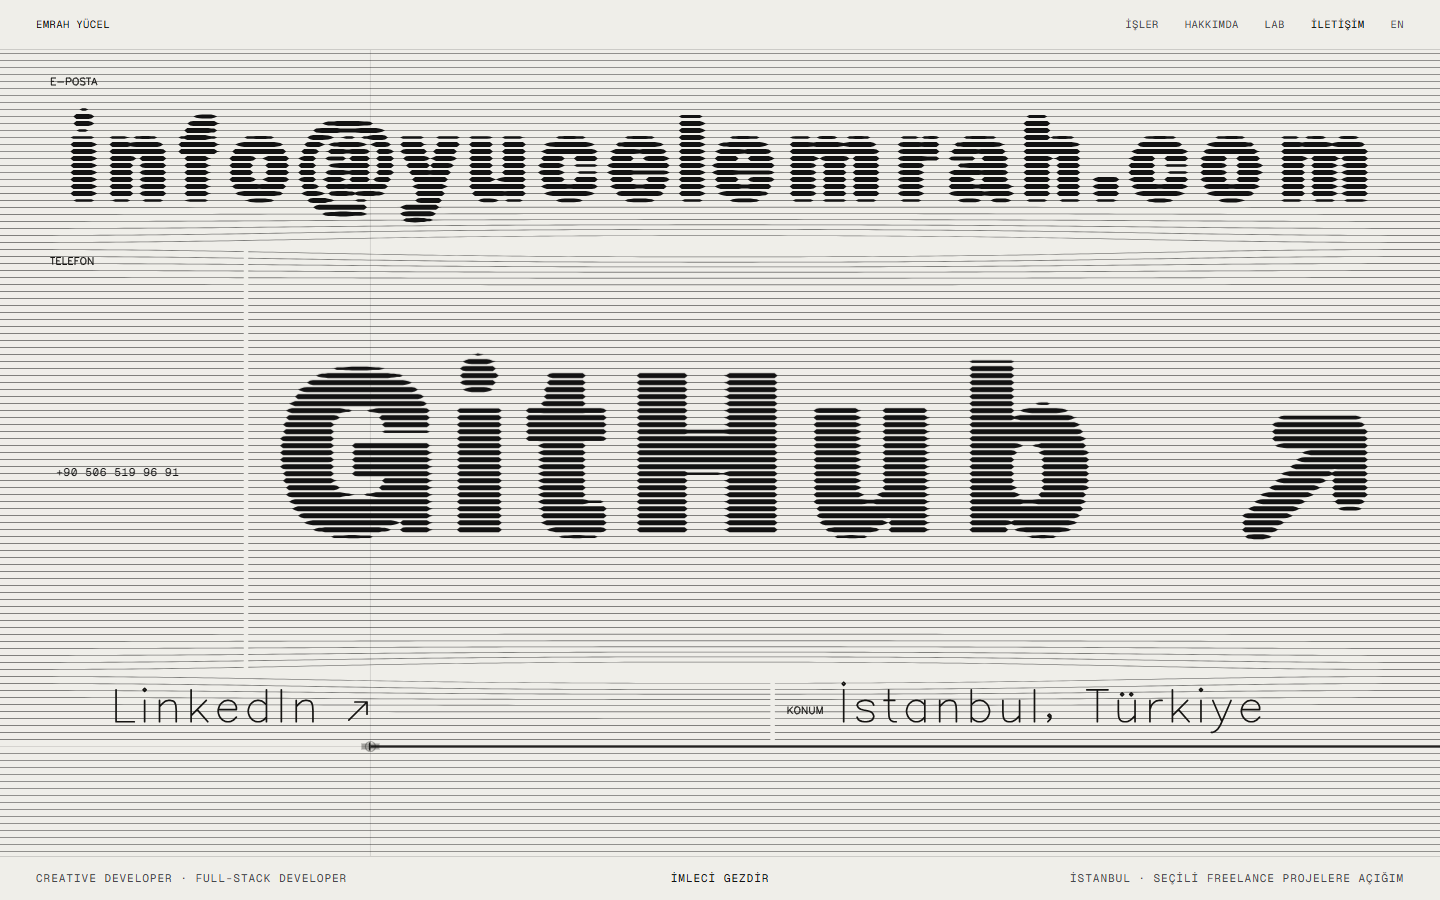
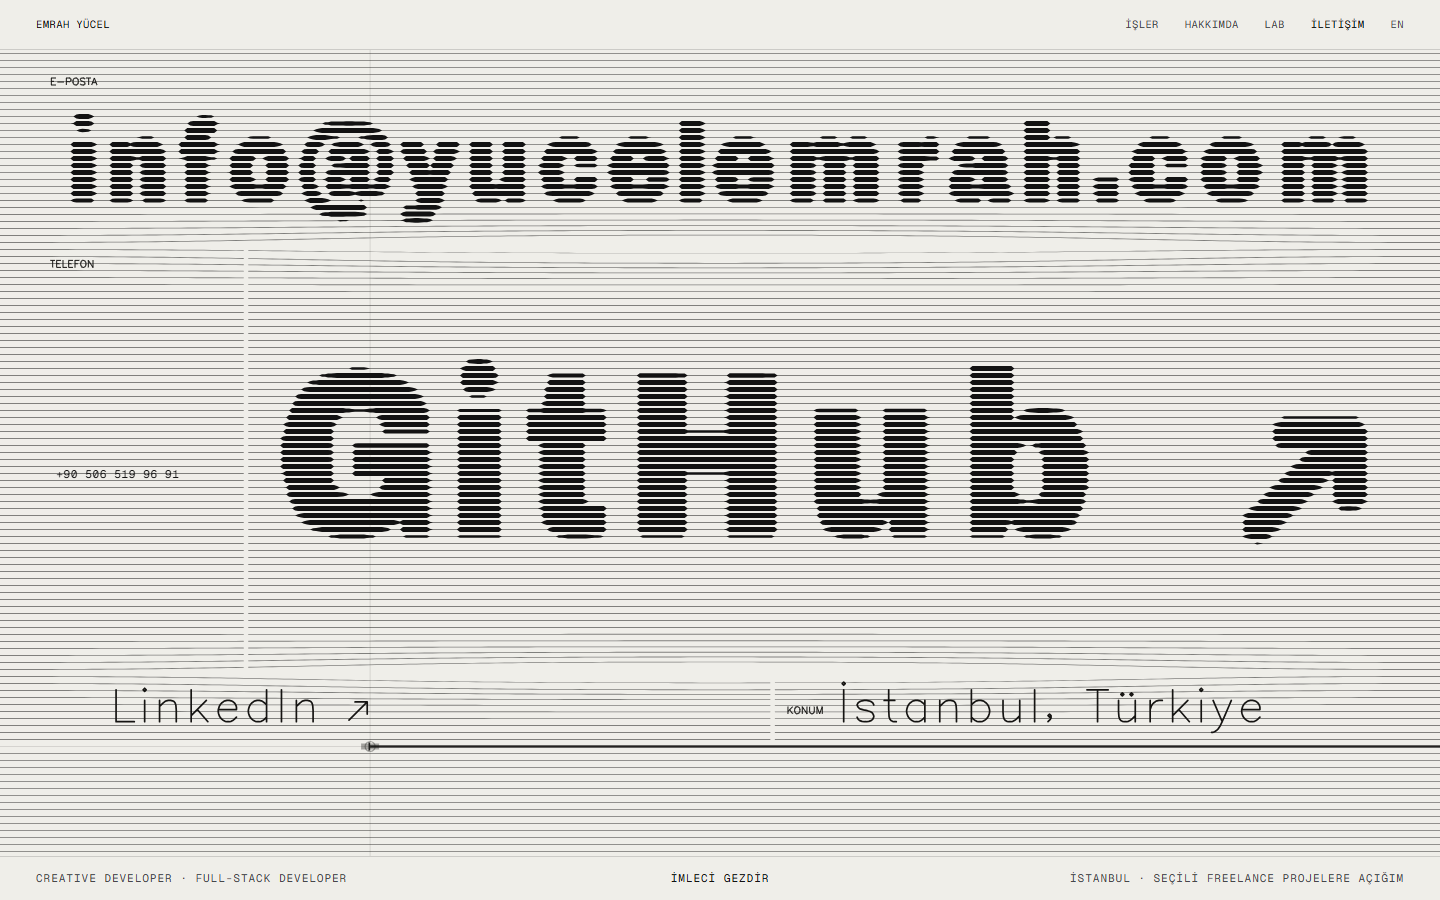
C2: the Contact stop is one named constant (CONTACT_STOP), noted for the Linefield merge

diff --git a/engine/c2/main.js b/engine/c2/main.js
@@ -156,7 +156,17 @@ function measure() {
   root.setProperty('--safe-b', `${safe.b}px`)
 }
 
-const LAST = 5
+/**
+ * THE CONTACT STOP — the index position that hands over to the Contact finale (/[locale]/contact). Every use of
+ * that position reads this constant: the handover (frame), the stop tables of the strip and of navigate(), IDX's
+ * slot for the stop's material (rebuild), the texture warm queue and the imprint's visibility there.
+ *
+ * MERGING WITH LINEFIELD: Linefield replaces the fixed stop numbers with its SPINE / STOP map and adds a stop of its
+ * own. On that merge CONTACT_STOP must be bound to the map's Contact stop (STOP.rest), not kept at 5 — and LAST,
+ * IDX's order, DEST_AT, PLACE_HEADING and PLACE_NAME follow the map. docs/contact-finale/LINEFIELD-MERGE.md.
+ */
+const CONTACT_STOP = 5
+const LAST = CONTACT_STOP // Contact is the index's last stop
 const N = works.length
 let IDX = [], WORKS = [], WORLD = {}, FR = {}, BLANK = null, MEDIA = {}, BRIDGE = null
 const framesOf = (k) => (FR[k] ??= framesFor(V, works[k]))
@@ -220,7 +230,7 @@ function rebuild() {
   const old = new Set([...IDX, ...WORKS, ...Object.values(WORLD).flat(), BLANK])
   BLANK = ST.blank(V)
   WORKS = works.map((w, i) => ST.workState(V, w, i))
-  IDX = [ST.name(V), ST.face(V, 'surface'), ST.face(V, 'system'), WORKS[0], ST.labState(V), ST.rest(V, A.visitOrder, A.aboutMark)]
+  IDX = [ST.name(V), ST.face(V, 'surface'), ST.face(V, 'system'), WORKS[0], ST.labState(V), ST.rest(V, A.visitOrder, A.aboutMark)] // … the last is IDX[CONTACT_STOP]
   if (REDUCED) for (const s of IDX) s.ampK = 0
   capReset()
   WORLD = {}; FR = {}
@@ -242,7 +252,7 @@ function rebuild() {
   if (A.mode === 'exit') { A.mode = 'index'; A.p = A.pT = A.base = A.prevBase = 3; A.worldOn = false }
   layoutDOM()
   if (A.mode === 'world') { mediaFor(A.k); fillWorldDOM(A.k); Object.assign(A.world, worldGeom(A.wp)) }
-  queueWarm([IDX[1], IDX[2], IDX[4], IDX[5]])
+  queueWarm([IDX[1], IDX[2], IDX[4], IDX[CONTACT_STOP]])
   const built = WORKS
   tonesReady.then(() => { if (WORKS === built) queueWarm(WORKS.slice(0, 3)) })
 }
@@ -925,7 +935,7 @@ ui.addEventListener('click', (e) => {
   if (b.dataset.go === 'rest') { HOST.contact('end'); return }
   if (b.dataset.go) {
     A.focusNext = performance.now()   // M4 A11Y
-    const stop = { name: 0, creative: 1, system: 2, work: 3, lab: 4, rest: 5 }[b.dataset.go]
+    const stop = { name: 0, creative: 1, system: 2, work: 3, lab: 4, rest: CONTACT_STOP }[b.dataset.go]
     // already there: nothing arrives, so focus goes now
     if (stop != null && A.mode === 'index' && !A.aboutOpen && A.base === stop && Math.abs(A.p - stop) < 0.05) { A.focusNext = 0; wantFocus(PLACE_HEADING[stop]) }
     navigate(b.dataset.go)
@@ -1056,7 +1066,7 @@ function buildDOM() {
 
 }
 function navigate(target) {
-  const stop = { name: 0, about: 0, creative: 1, system: 2, work: 3, lab: 4, rest: 5 }[target]
+  const stop = { name: 0, about: 0, creative: 1, system: 2, work: 3, lab: 4, rest: CONTACT_STOP }[target]
   if (A.mode === 'world') { exit(); A.pending = target; return }
   if (A.aboutOpen && target !== 'about') closeAbout()
   if (A.mode !== 'index') return
@@ -1517,7 +1527,7 @@ function frame(now) {
   // there quietly instead of pushing the route again.
   if (A.labArmed && A.mode === 'index' && A.base === 4 && Math.abs(A.p - 4) < 0.02 && Math.abs(A.pT - 4) < 0.02 && !A.busy && !A.aboutOpen && !ptr.down && owns()) openLab()
   // …and travel that settles on Contact hands over to the finale, which then plays from its first frame
-  if (A.labArmed && A.mode === 'index' && A.base === 5 && Math.abs(A.p - 5) < 0.02 && Math.abs(A.pT - 5) < 0.02 && !A.busy && !A.aboutOpen && !ptr.down && owns()) openContact('start')
+  if (A.labArmed && A.mode === 'index' && A.base === CONTACT_STOP && Math.abs(A.p - CONTACT_STOP) < 0.02 && Math.abs(A.pT - CONTACT_STOP) < 0.02 && !A.busy && !A.aboutOpen && !ptr.down && owns()) openContact('start')
   if (A.mode === 'world' && !A.busy) Object.assign(A.world, worldGeom(A.wp))
   const lf = A.mode === 'world' ? lastFrame() : 0
   if (A.mode === 'world' && A.wp > lf - 0.1 && !A.nextArmed) {
@@ -1578,8 +1588,8 @@ function frame(now) {
 
   // how much of the visit's imprint each place lets show; at rest everything else is straight, so it shows most
   const stop = Math.round(A.p)
-  const impT = A.mode !== 'index' ? 0 : stop === 4 ? 1 : stop === 5 ? 1.35 : 0.75
-  phys.impVis = damp(phys.impVis, impT, stop === 5 ? 1.1 : 3, et)
+  const impT = A.mode !== 'index' ? 0 : stop === 4 ? 1 : stop === CONTACT_STOP ? 1.35 : 0.75
+  phys.impVis = damp(phys.impVis, impT, stop === CONTACT_STOP ? 1.1 : 3, et)
 
   const src = { x: ptr.x, y: ptr.y, vx: ptr.vx, vy: ptr.vy, hover: ptr.hover }
   const pr = A.press
@@ -1773,7 +1783,7 @@ export function setLocale(next) {
   return true
 }
 
-window.__lab = { A, V, ptr, phys, surface, works, configure, routeChanged, setLocale, locale: () => TXT,  previewOf, go, forcedPress, navigate, exit, expandAbout, collapseAbout, startBridge, openLab, arriveAt, replayIntro: playIntro, IDX: () => IDX, WORKS: () => WORKS, WORLD: () => WORLD, frames: framesOf, touches, sig: () => lastSig, redraw: () => { lastSig = '' } }
+window.__lab = { CONTACT_STOP, A, V, ptr, phys, surface, works, configure, routeChanged, setLocale, locale: () => TXT,  previewOf, go, forcedPress, navigate, exit, expandAbout, collapseAbout, startBridge, openLab, arriveAt, replayIntro: playIntro, IDX: () => IDX, WORKS: () => WORKS, WORLD: () => WORLD, frames: framesOf, touches, sig: () => lastSig, redraw: () => { lastSig = '' } }
 let rt = 0, booted = false
 // a resize before the surface exists (a phone's URL bar settling during load) is picked up once start() finishes
 addEventListener('resize', () => { clearTimeout(rt); rt = setTimeout(async () => { if (!booted) return; if (!owns()) { resizedWhileAway = true; return } measure(); await ensurePreviews(); rebuild() }, 140) })
